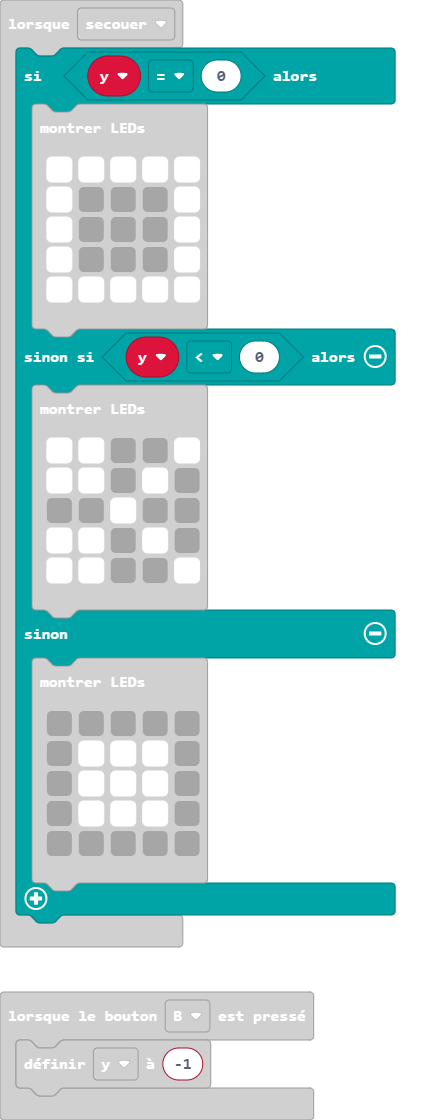
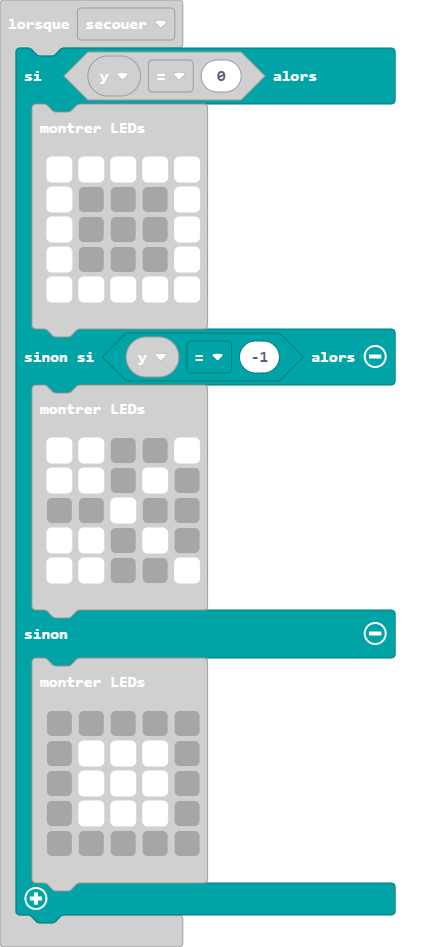
Mise à jour main.blocks, main.ts

diff --git a/main.ts b/main.ts
@@ -14,7 +14,7 @@ input.onGesture(Gesture.Shake, function () {
             # . . . #
             # # # # #
             `)
-    } else if (y < 0) {
+    } else if (y == -1) {
         basic.showLeds(`
             # # . . #
             # # . # .
